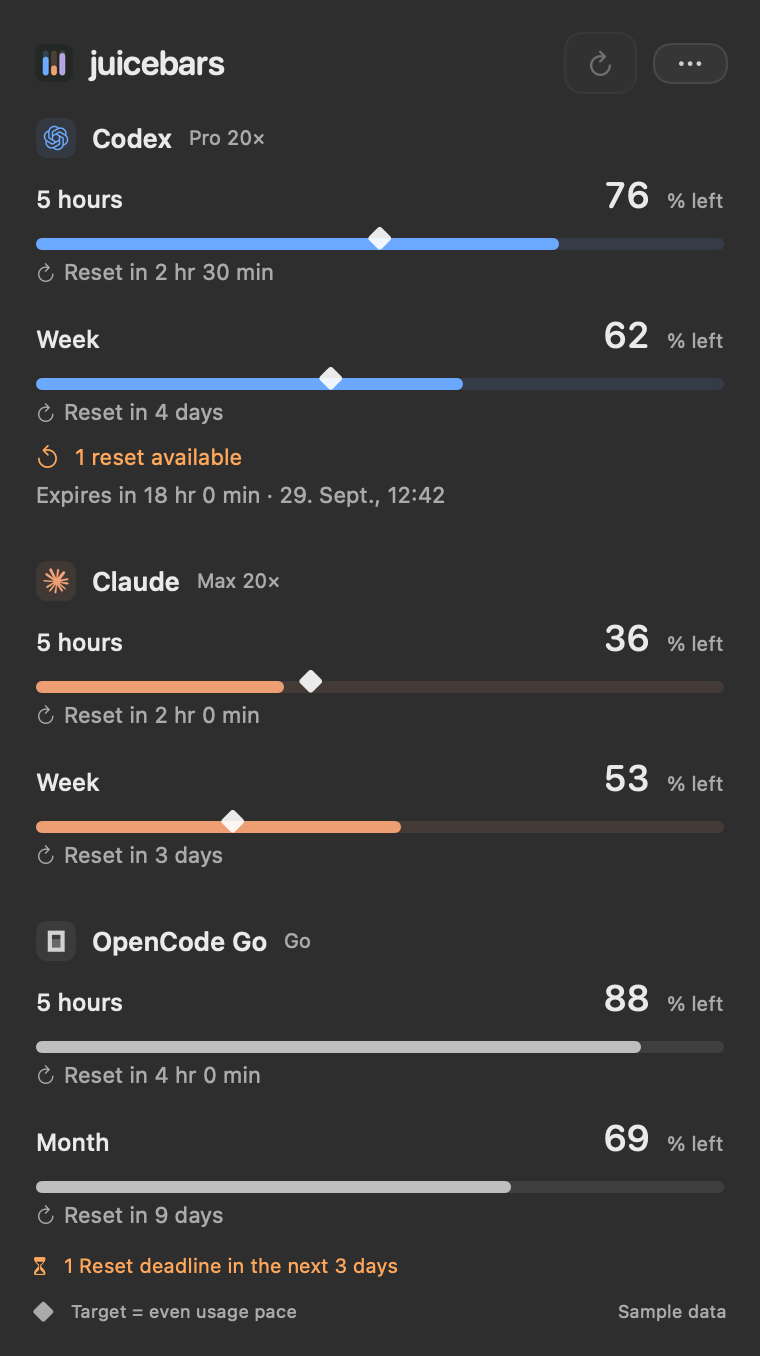
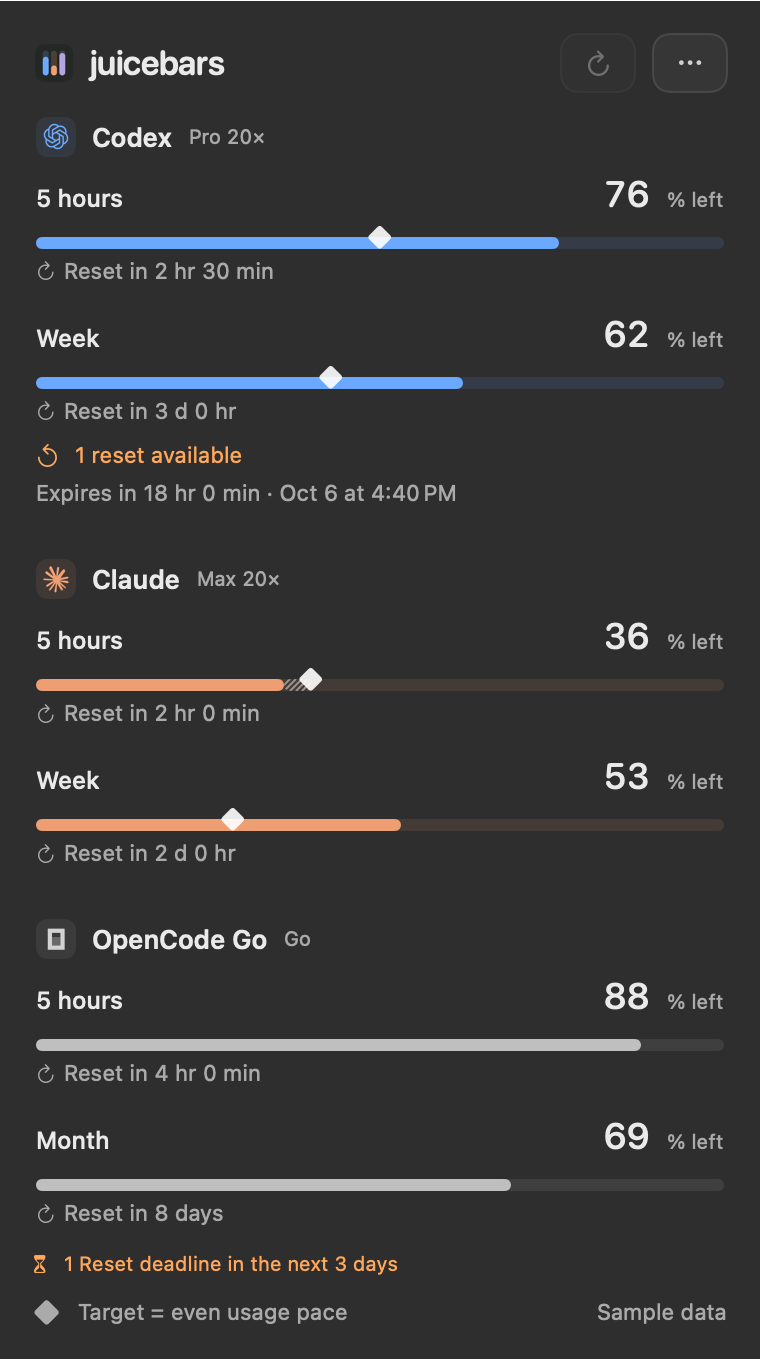
Prepare 0.1.9 with tray hover details and a fitted window
- Fit the menu bar window to its content; MenuBarExtra only ever grew it,
  leaving transparent bands with a visible border above and below.
- Show a popover on quota bars with the current target, when usage falls
  back to the even pace, projected limit or target times and the reset.
- Hatch the part of a bar that is ahead of the even pace.
- Explain missing targets for windows without a known start.
- Match the refresh and actions button heights, enlarge the footer,
  show days and hours below a week and drop fractional credits.
- Format reset expiries and month labels in the app language.

diff --git a/Sources/Juicebar/Components.swift b/Sources/Juicebar/Components.swift
@@ -78,13 +78,19 @@ struct QuotaBar: View {
                     Capsule().fill(expired ? Color.secondary : color)
                         .frame(width: max(0, proxy.size.width * min(displayed, 100) / 100), height: 6)
                         .offset(y: compact ? 7 : 12)
+                    if !expired, let ideal = window.idealPercent(at: now), window.usedPercent - ideal > 1 {
+                        // Usage ahead of the even pace, between fill end and diamond in either display mode.
+                        let edges = [displayed, mode.value(used: ideal)].map { proxy.size.width * min(max($0, 0), 100) / 100 }
+                        Hatch().stroke(Color.primary.opacity(0.5), lineWidth: 1).clipShape(Capsule())
+                            .frame(width: edges.max()! - edges.min()!, height: 6)
+                            .offset(x: edges.min()!, y: compact ? 7 : 12)
+                    }
                     if !expired, let ideal = window.idealPercent(at: now) {
                         Image(systemName: "diamond.fill")
                             .font(.system(size: 10, weight: .semibold)).foregroundStyle(.primary)
                             .frame(width: 10, height: 10)
                             // Half of the diamond overlaps the bar: center at its upper edge, y = 12.
                             .offset(x: max(0, min(proxy.size.width - 10, proxy.size.width * mode.value(used: ideal) / 100 - 5)), y: compact ? 2 : 7)
-                            .help(tr("Sollstand bei gleichmäßigem Verbrauch: {0} %", Int(mode.value(used: ideal).rounded())))
                     }
                 }
                 .frame(height: compact ? 13 : 18, alignment: .topLeading)
@@ -101,6 +107,8 @@ struct QuotaBar: View {
                 }
             }.font(.system(size: 11)).foregroundStyle(.secondary)
         }
+        .contentShape(Rectangle())
+        .hoverInfo { details }
         .accessibilityElement(children: .ignore)
         .accessibilityLabel(tr("{0}, {1} Prozent {2}{3}", window.title, Int(displayed.rounded()), mode == .remaining ? tr("übrig") : tr("verbraucht"), expired ? tr(", Wert abgelaufen") : ""))
         .accessibilityValue(statusTitle)
@@ -111,7 +119,6 @@ struct QuotaBar: View {
             if let reset = window.resetsAt {
                 Image(systemName: "arrow.clockwise").font(.system(size: 9))
                 Text(expired ? tr("Reset erreicht · warte auf neuen Stand") : tr("Reset {0}", relativeTime(reset, now: now)))
-                    .help(reset.formatted(Date.FormatStyle(date: .complete, time: .shortened).locale(Localization.locale)))
             } else { Text(tr("Resetzeit nicht verfügbar")) }
         }
     }
@@ -124,8 +131,39 @@ struct QuotaBar: View {
             }
             .font(.system(size: 10, weight: .medium))
             .foregroundStyle(status == .exhausted ? Color.red : Palette.accent)
-            .help(statusHelp)
         }
+    }
+    @ViewBuilder private var details: some View {
+        VStack(alignment: .leading, spacing: 5) {
+            if !expired, let ideal = window.idealPercent(at: now) {
+                detail(tr("Soll jetzt"), tr("{0} %", Int(mode.value(used: ideal).rounded())))
+                if let recovery = window.paceRecovery(at: now) {
+                    detail(tr("Ohne weitere Nutzung im Soll"), pointInTime(recovery))
+                } else {
+                    detail(tr("Puffer zum Soll"), tr("{0} Prozentpunkte", Int((ideal - window.usedPercent).rounded())))
+                }
+            }
+            switch status {
+            case .projectedPaceCrossing(let date) where !expired: detail(tr("Soll erreicht voraussichtlich"), pointInTime(date))
+            case .projectedExhaustion(let date) where !expired: detail(tr("Limit erreicht voraussichtlich"), pointInTime(date))
+            default: EmptyView()
+            }
+            if !window.supportsPace {
+                Text(tr("Kein Sollwert: Der Anbieter nennt keinen Fensterbeginn.")).foregroundStyle(.secondary)
+                    .frame(width: 260, alignment: .leading).fixedSize(horizontal: false, vertical: true)
+            }
+            if let reset = window.resetsAt { detail(tr("Reset"), pointInTime(reset)) }
+            if !statusHelp.isEmpty, !expired {
+                Text(statusHelp).foregroundStyle(.secondary).frame(width: 260, alignment: .leading).fixedSize(horizontal: false, vertical: true)
+            }
+        }
+    }
+    private func detail(_ title: String, _ value: String) -> some View {
+        HStack(alignment: .firstTextBaseline, spacing: 12) {
+            Text(title).foregroundStyle(.secondary)
+            Spacer(minLength: 0)
+            Text(value).monospacedDigit()
+        }.frame(width: 260)
     }
     private var statusTitle: String {
         guard !expired else { return "" }
@@ -151,12 +189,49 @@ struct QuotaBar: View {
     }
 }
 
+private struct Hatch: Shape {
+    func path(in rect: CGRect) -> Path {
+        var path = Path()
+        for x in stride(from: rect.minX - rect.height, to: rect.maxX, by: 3) {
+            path.move(to: CGPoint(x: x, y: rect.maxY)); path.addLine(to: CGPoint(x: x + rect.height, y: rect.minY))
+        }
+        return path
+    }
+}
+
+func pointInTime(_ date: Date) -> String {
+    date.formatted(Date.FormatStyle(locale: Localization.locale).weekday(.abbreviated).day().month(.abbreviated).hour().minute())
+}
+
+extension View {
+    /// `.help` tooltips rarely appear in the menu bar panel and cannot hold exact times compactly.
+    func hoverInfo<Info: View>(@ViewBuilder _ info: @escaping () -> Info) -> some View { modifier(HoverInfo(info: info)) }
+}
+
+private struct HoverInfo<Info: View>: ViewModifier {
+    let info: () -> Info
+    @State private var hovering = false
+    @State private var shown = false
+    func body(content: Content) -> some View {
+        content
+            .onHover { inside in
+                hovering = inside
+                guard inside else { shown = false; return }
+                DispatchQueue.main.asyncAfter(deadline: .now() + 0.4) { if hovering { shown = true } }
+            }
+            .popover(isPresented: $shown, arrowEdge: .bottom) {
+                info().font(.system(size: 11)).padding(12)
+            }
+    }
+}
+
 func relativeTime(_ date: Date, now: Date = Date()) -> String {
     let delta = date.timeIntervalSince(now)
     if delta <= 0 { return tr("jetzt") }
     if delta < 3600 { return tr("in {0} Min.", max(1, Int(delta / 60))) }
     if delta < 86400 { return tr("in {0} Std. {1} Min.", Int(delta / 3600), Int(delta.truncatingRemainder(dividingBy: 3600) / 60)) }
-    return tr("in {0} Tagen", Int(ceil(delta / 86400)))
+    if delta < 7 * 86400 { return tr("in {0} T. {1} Std.", Int(delta / 86400), Int(delta.truncatingRemainder(dividingBy: 86400) / 3600)) }
+    return tr("in {0} Tagen", Int(delta / 86400))
 }
 
 func updatedText(_ date: Date?, now: Date) -> String {
@@ -211,7 +286,7 @@ struct ResetAvailability: View {
                 .foregroundStyle(Palette.accent)
             if let expiry {
                 Text(expiry <= now ? tr("Ablauf erreicht · neuer Stand ausstehend") :
-                     "\(count == 1 ? tr("Läuft") : tr("Nächster Ablauf")) \(relativeTime(expiry, now: now))\(count == 1 ? tr(" ab") : "") · \(expiry.formatted(.dateTime.day().month(.abbreviated).hour().minute()))")
+                     "\(count == 1 ? tr("Läuft") : tr("Nächster Ablauf")) \(relativeTime(expiry, now: now))\(count == 1 ? tr(" ab") : "") · \(expiry.formatted(.dateTime.day().month(.abbreviated).hour().minute().locale(Localization.locale)))")
                     .foregroundStyle(.secondary)
                     .help(expiry.formatted(Date.FormatStyle(date: .complete, time: .shortened).locale(Localization.locale)))
             } else {

diff --git a/Sources/Juicebar/TrayView.swift b/Sources/Juicebar/TrayView.swift
@@ -4,6 +4,7 @@ import JuicebarCore
 struct TrayView: View {
     @ObservedObject var store: AppStore
     var maximumHeight: CGFloat = (NSScreen.main?.visibleFrame.height ?? 800) - 16
+    @State private var height: CGFloat = 0
     private var accounts: [AccountConfiguration] { QuotaOrder.accounts(store.accounts.filter(\.enabled)) }
     var body: some View {
         TrayLayout(maximumHeight: maximumHeight - 32) {
@@ -16,14 +17,14 @@ struct TrayView: View {
                 }.buttonStyle(.plain).help(tr("Juicebars öffnen")).accessibilityLabel(tr("Juicebars öffnen"))
                 Spacer()
                 if store.isRefreshing { ProgressView().controlSize(.small) }
-                Button { store.refresh(force: true) } label: { Image(systemName: "arrow.clockwise") }
+                Button { store.refresh(force: true) } label: { Image(systemName: "arrow.clockwise").frame(width: 14, height: 14) }
                     .disabled(store.isRefreshing || store.isDemo).help(tr("Aktualisieren"))
                 Menu {
                     Button(store.isPaused ? tr("Abfragen fortsetzen") : tr("Abfragen pausieren")) { store.isPaused.toggle(); if !store.isPaused { store.refresh(force: true) } }
                     Button(tr("Warnungen 1 Stunde stummschalten")) { store.snooze() }
                     Divider()
                     Button(tr("Juicebars beenden")) { store.stop(); NSApp.terminate(nil) }
-                } label: { Image(systemName: "ellipsis") }
+                } label: { Image(systemName: "ellipsis").frame(width: 14, height: 14) }
                     .menuStyle(.button).menuIndicator(.hidden).buttonStyle(JuiceButtonStyle()).fixedSize()
                     .help(tr("Weitere Aktionen"))
             }
@@ -43,10 +44,12 @@ struct TrayView: View {
                     Label(tr("Soll = gleichmäßiger Verbrauch"), systemImage: "diamond.fill")
                     Spacer(minLength: 4)
                     Text(store.isDemo ? tr("Beispieldaten") : store.isPaused ? tr("Pausiert") : updatedText(store.lastChecked, now: store.now))
-                }.font(.system(size: 9)).foregroundStyle(.secondary)
+                }.font(.system(size: 11)).foregroundStyle(.secondary)
             }
         }
         .padding(16).frame(width: 380).background(.ultraThinMaterial)
+        .onGeometryChange(for: CGFloat.self) { $0.size.height } action: { height = $0 }
+        .background(TrayWindowFit(height: height))
         .tint(Palette.accent).buttonStyle(JuiceButtonStyle())
         .environment(\.quotaDisplay, store.settings.displayMode).onAppear { store.start() }
     }
@@ -62,6 +65,20 @@ struct TrayView: View {
         }
         .frame(maxWidth: .infinity, alignment: .leading)
         .fixedSize(horizontal: false, vertical: true)
+    }
+}
+
+/// MenuBarExtra grows its window with the content but never shrinks it; the rest stays transparent.
+private struct TrayWindowFit: NSViewRepresentable {
+    let height: CGFloat
+    func makeNSView(context: Context) -> NSView { NSView() }
+    func updateNSView(_ view: NSView, context: Context) {
+        DispatchQueue.main.async {
+            guard height > 0, let window = view.window, abs(window.contentLayoutRect.height - height) >= 0.5 else { return }
+            var frame = window.frameRect(forContentRect: NSRect(origin: .zero, size: CGSize(width: window.contentLayoutRect.width, height: height)))
+            frame.origin = NSPoint(x: window.frame.minX, y: window.frame.maxY - frame.height)
+            window.setFrame(frame, display: true)
+        }
     }
 }
 
@@ -126,7 +143,7 @@ private struct TrayAccountView: View {
                     HStack {
                         Text(metric.title).foregroundStyle(.secondary)
                         Spacer()
-                        Text(metric.currency == "Credits" ? "\(metric.amount.formatted(.number.precision(.fractionLength(0...1)))) Credits" : metric.amount.formatted(.currency(code: metric.currency)))
+                        Text(metric.currency == "Credits" ? "\(metric.amount.formatted(.number.precision(.fractionLength(0)))) Credits" : metric.amount.formatted(.currency(code: metric.currency)))
                     }.font(.system(size: 11)).monospacedDigit()
                 }
                 if let count = snapshot.benefitCount, count > 0 {

diff --git a/site/index.html b/site/index.html
@@ -19,7 +19,7 @@
   <svg class="system-icon control-center" viewBox="0 0 22 20" aria-hidden="true"><rect x="1" y="1" width="20" height="7" rx="3.5" fill="currentColor"/><circle cx="5" cy="4.5" r="2.2" fill="#444a43"/><rect x="1.7" y="12.7" width="18.6" height="5.6" rx="2.8" stroke="currentColor" stroke-width="1.4" fill="none"/><circle cx="17" cy="15.5" r="2" fill="currentColor"/></svg>
   <span class="menu-date">Fri 25 Sep <span>09:41</span></span>
   <svg class="system-icon battery" viewBox="0 0 29 14" aria-hidden="true"><rect x="1" y="1" width="24" height="12" rx="3" stroke="currentColor" stroke-opacity=".65" stroke-width="1.3" fill="none"/><rect x="3" y="3" width="17" height="8" rx="1.4" fill="currentColor"/><path d="M27 5v4" stroke="currentColor" stroke-width="2" stroke-linecap="round"/></svg>
-</div><img height="1356" width="760" class="tray" src="assets/tray.png" alt="Juicebars popover with remaining quotas, reset times and even-pace markers for Codex, Claude and OpenCode Go."><p class="caption">App preview, sample data. System icons illustrated.</p></div>
+</div><img height="1360" width="760" class="tray" src="assets/tray.png" alt="Juicebars popover with remaining quotas, reset times and even-pace markers for Codex, Claude and OpenCode Go."><p class="caption">App preview, sample data. System icons illustrated.</p></div>
 </section>
 <section id="how" class="wrap feature"><div><h2>Limits and reset times.</h2><p>The bars drain as you work. The diamond shows where an even usage pace would put you. Choose which limits belong in your menu bar, without a row of names and percentages.</p><p>Set a usage threshold, a pace warning or a forecast window. Get a reminder when a banked reset is about to expire, where your provider reports that date.</p></div><figure class="wide"><img height="1600" width="2560" src="assets/overview.png" loading="lazy" alt="Juicebars overview showing Codex and Claude quotas side by side, plus an expiring reset warning."><figcaption>English and German interface. Light and dark appearance. Sample data shown.</figcaption></figure></section>
 <section class="wrap feature"><div><h2>Usage and API costs.</h2><p>Daily charts and an activity calendar bring Codex, Claude, OpenCode, Pi, Gemini CLI, Cline, Roo Code, Kilo and Qwen Code logs together. Add a local source folder or an existing SSH host to include more of your work.</p><p>See the theoretical API value of your token usage, with cache pricing and clear coverage when a model has no known price. It is an estimate, never a subscription bill.</p></div><figure class="wide"><img height="1600" width="2560" src="assets/usage.png" loading="lazy" alt="Usage dashboard with theoretical API costs, activity calendar and daily usage chart."><figcaption>Usage imports automatically. Previously collected metadata remains available for 90 days.</figcaption></figure></section>

diff --git a/Sources/Juicebar/DashboardView.swift b/Sources/Juicebar/DashboardView.swift
@@ -182,7 +182,7 @@ struct AccountCard: View {
                         HStack {
                             Text(metric.title).font(.system(size: 12)).foregroundStyle(.secondary)
                             Spacer()
-                            Text(metric.currency == "Credits" ? "\(metric.amount.formatted(.number.precision(.fractionLength(0...1)))) Credits" : metric.amount.formatted(.currency(code: metric.currency)))
+                            Text(metric.currency == "Credits" ? "\(metric.amount.formatted(.number.precision(.fractionLength(0)))) Credits" : metric.amount.formatted(.currency(code: metric.currency)))
                                 .font(.system(size: 20, weight: .medium, design: .rounded)).monospacedDigit()
                         }
                     }

diff --git a/Sources/JuicebarCore/Models.swift b/Sources/JuicebarCore/Models.swift
@@ -83,6 +83,11 @@ public struct QuotaWindow: Identifiable, Codable, Equatable, Sendable {
         guard supportsPace, let duration, duration > 0, let resetsAt, resetsAt > date else { return nil }
         return min(100, max(0, 100 * (1 - resetsAt.timeIntervalSince(date) / duration)))
     }
+    /// When the even-pace target catches up with usage that is ahead of it, assuming no further use.
+    public func paceRecovery(at date: Date) -> Date? {
+        guard let ideal = idealPercent(at: date), usedPercent > ideal, let duration, let resetsAt else { return nil }
+        return resetsAt.addingTimeInterval(-duration * (1 - min(usedPercent, 100) / 100))
+    }
 }
 
 public enum BenefitStatus: String, Codable, Sendable { case available, used, expired, paused, unknown }

diff --git a/Sources/Juicebar/UsageView.swift b/Sources/Juicebar/UsageView.swift
@@ -244,7 +244,7 @@ struct ActivityCalendar: View {
                 ForEach(0..<(dates.count / 7), id: \.self) { week in
                     let first = dates[week * 7]
                     VStack(spacing: 5) {
-                        Text(week == 0 || calendar.component(.day, from: first) <= 7 ? first.formatted(.dateTime.month(.abbreviated)) : " ")
+                        Text(week == 0 || calendar.component(.day, from: first) <= 7 ? first.formatted(.dateTime.month(.abbreviated).locale(Localization.locale)) : " ")
                             .font(.system(size: 9)).foregroundStyle(.secondary).frame(height: 16)
                         ForEach(0..<7) { row in
                             let date = dates[week * 7 + row], count = counts[date] ?? 0

diff --git a/Tests/JuicebarCoreTests/CoreTests.swift b/Tests/JuicebarCoreTests/CoreTests.swift
@@ -9,4 +9,13 @@ final class CoreTests: XCTestCase {
         var rolling = week; rolling.supportsPace = false
         XCTAssertNil(rolling.idealPercent(at: now))
     }
+    func testPaceRecoveryOnlyWhenAheadOfTarget() {
+        let now = Date()
+        var week = QuotaWindow(id: "week", title: "Woche", usedPercent: 75, resetsAt: now.addingTimeInterval(3.5 * 86400), duration: 7 * 86400)
+        let recovery = week.paceRecovery(at: now)!
+        XCTAssertEqual(recovery.timeIntervalSince(now), 1.75 * 86400, accuracy: 0.01)
+        XCTAssertEqual(week.idealPercent(at: recovery)!, 75, accuracy: 0.001)
+        week.usedPercent = 40
+        XCTAssertNil(week.paceRecovery(at: now))
+    }
 }
